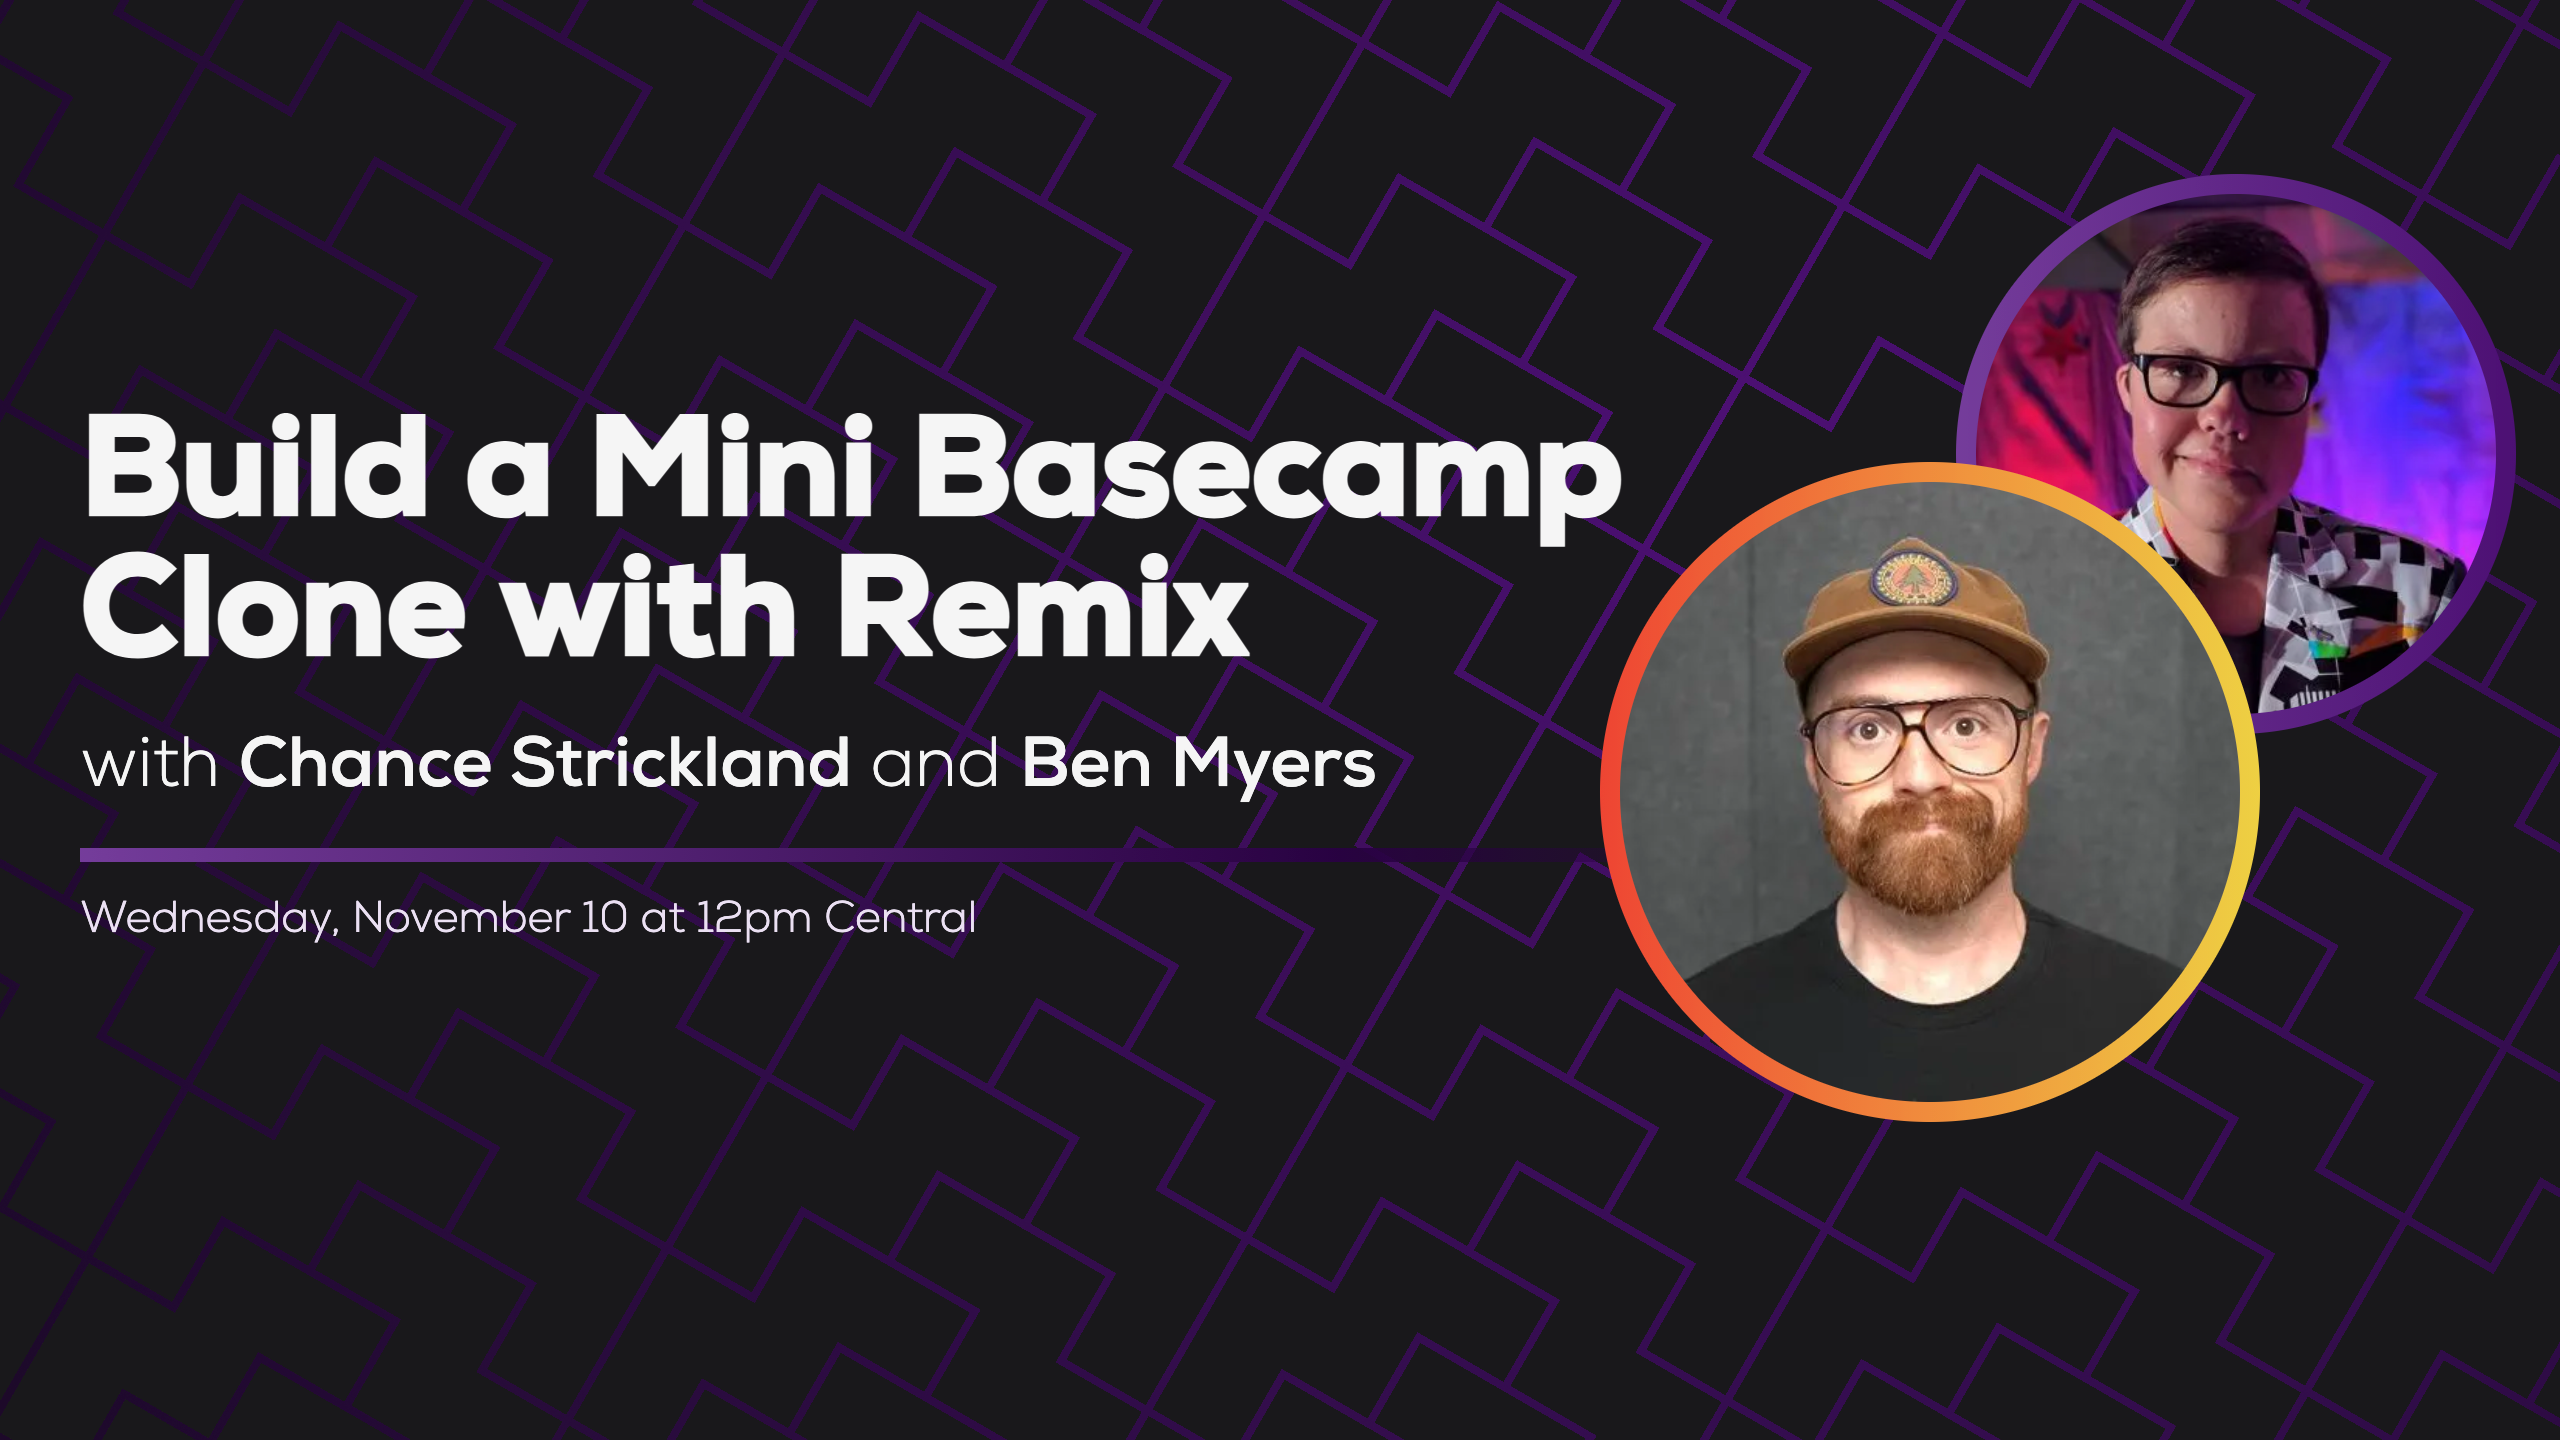
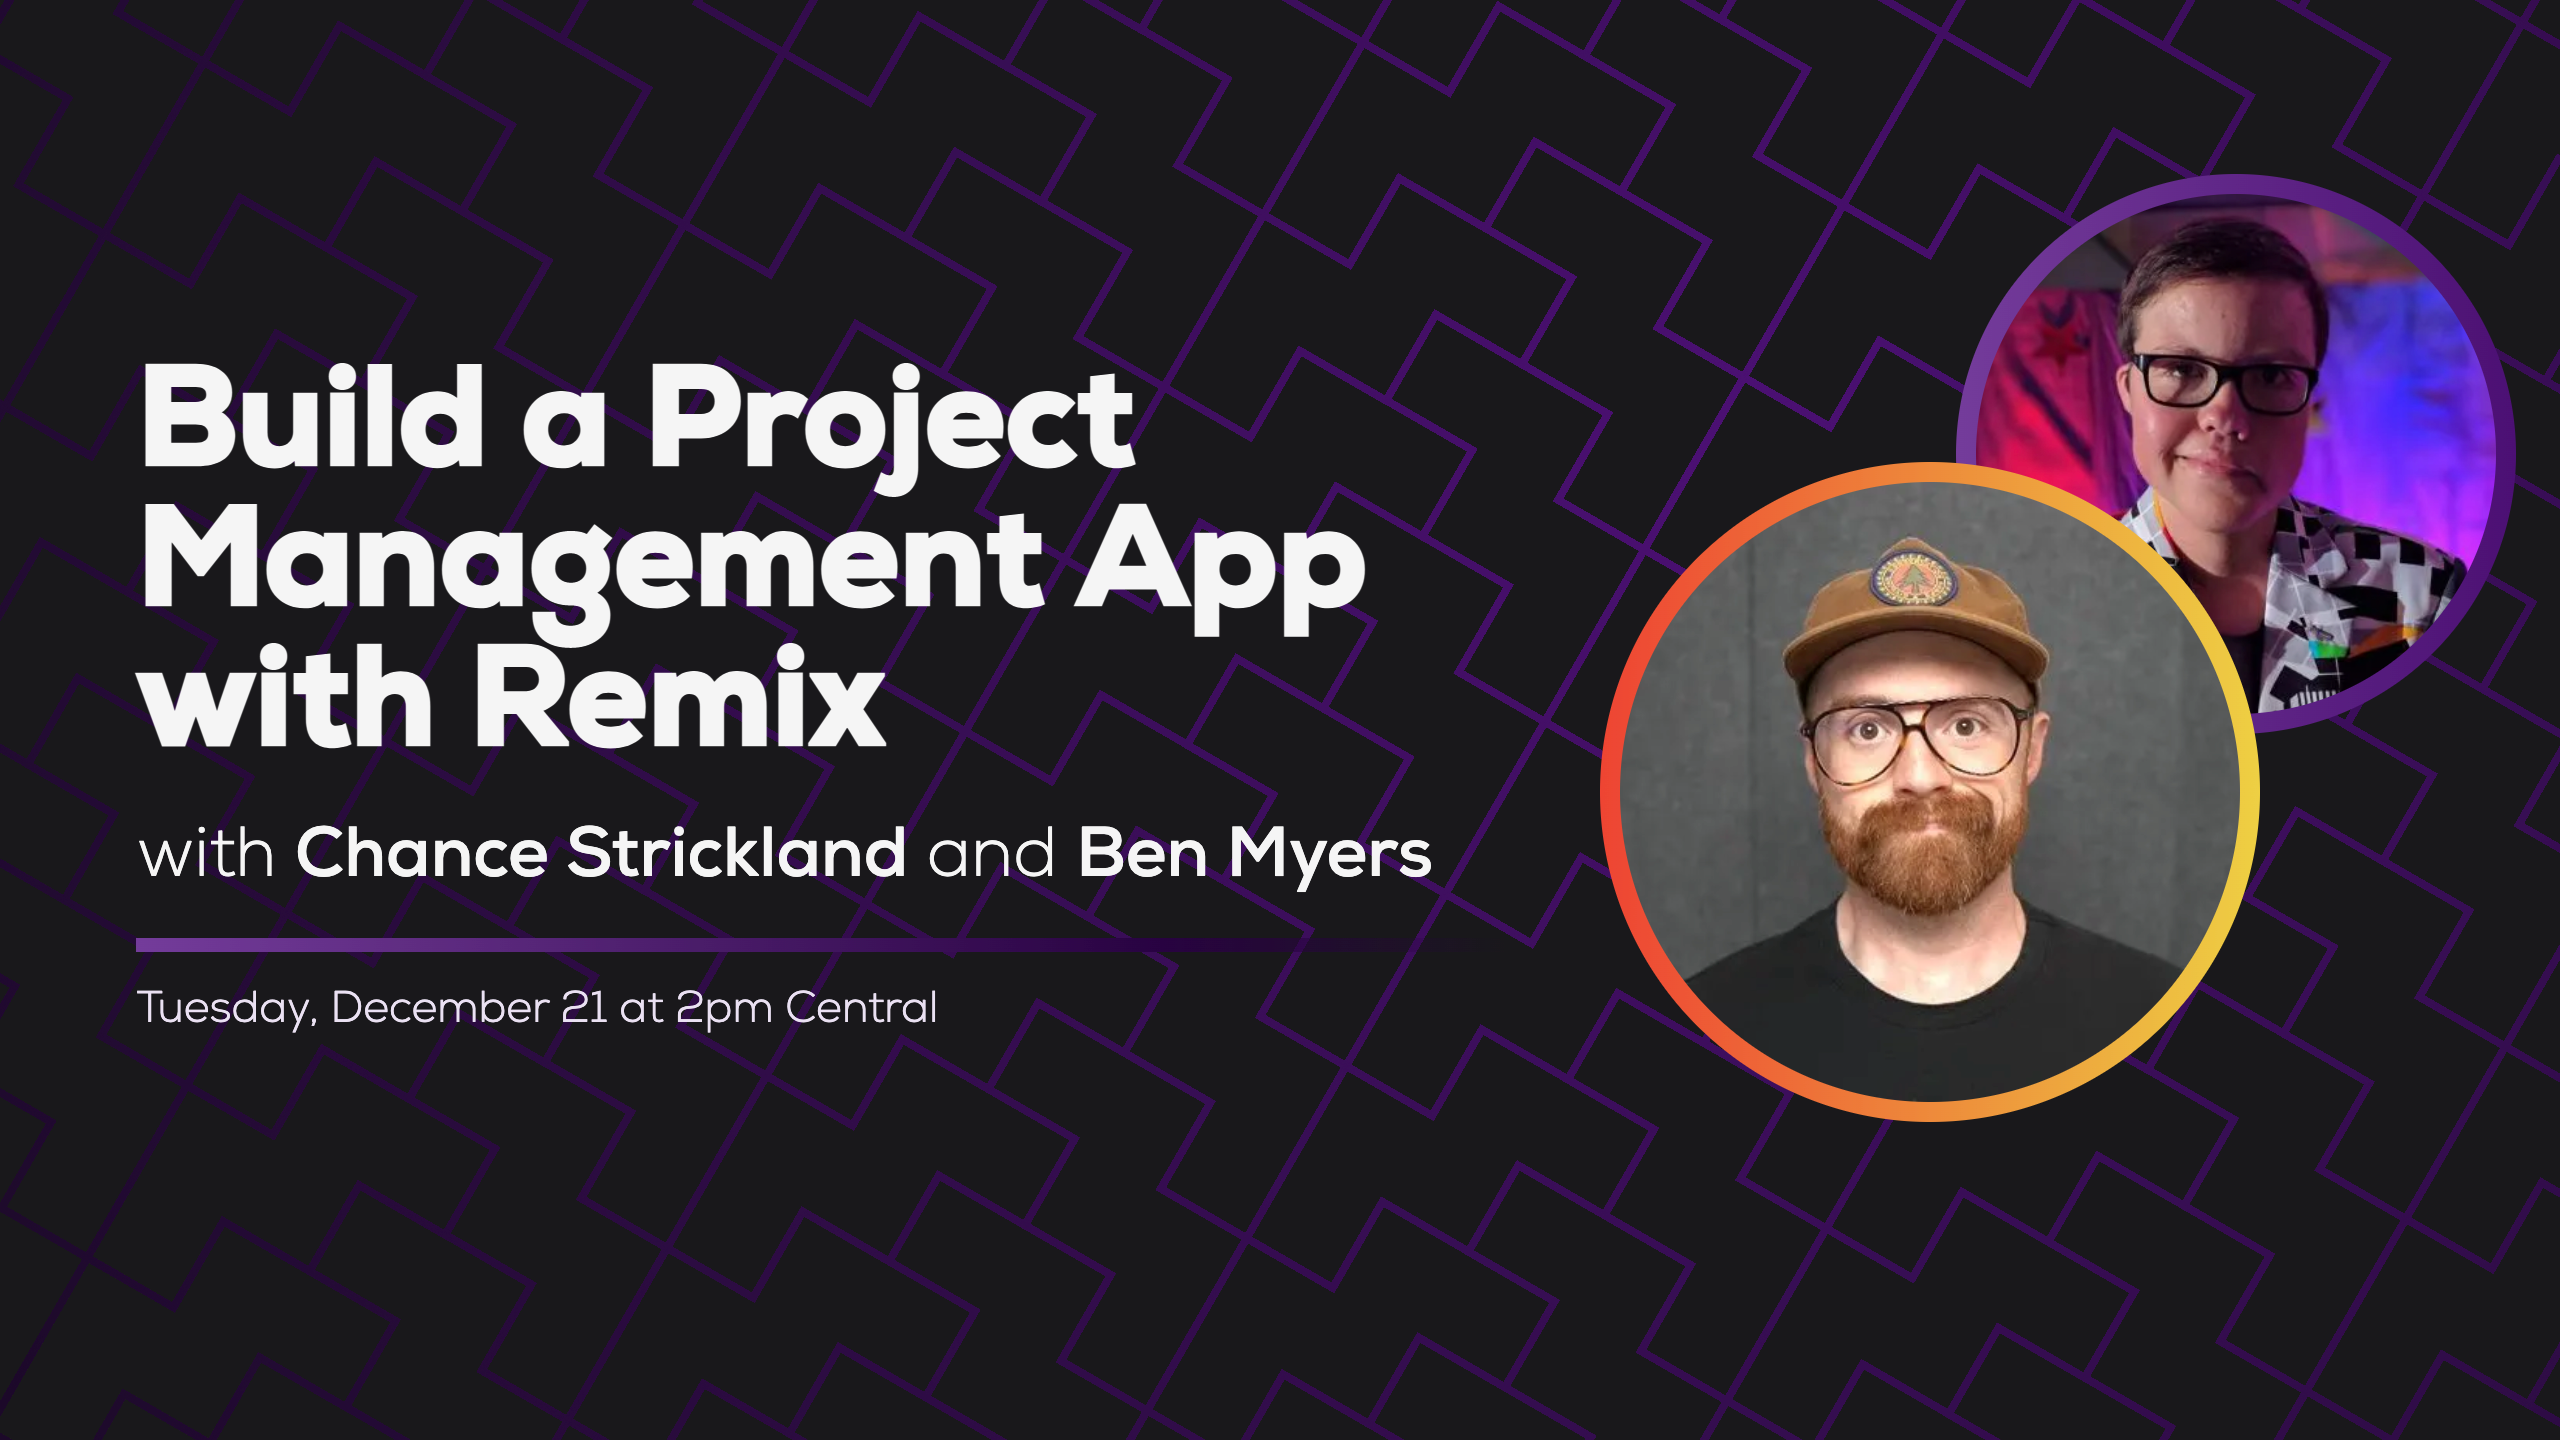
Update Remix stream deets

Changed region(s): [[0.0312, 0.25, 0.6562, 0.7188]]

diff --git a/src/streams/2021-11-10-remix.md b/src/streams/2021-11-10-remix.md
@@ -1,14 +1,12 @@
 ---
-title: "Let's Build a Mini Basecamp Clone with Remix, with Chance Strickland"
-thumbnailTitle: Build a Mini Basecamp Clone with Remix
+title: "Build a Project Management App with Remix, with Chance Strickland"
+thumbnailTitle: Build a Project Management App with Remix
 hosts:
   - Ben Myers
   - Chance Strickland
-permalink: false
-eleventyExcludeFromCollections: true
 ---
 
-[Remix](https://remix.run) is a new tool for building and deploying fullstack React applications with a keen appreciation for the web's foundations, built by the team behind [React Training](https://reacttraining.com) — and it was just made open source! Come join us on Some Antics as [Chance Strickland](https://twitter.com/chancethedev) shows us how we can build a mini Basecamp clone using Remix.
+[Remix](https://remix.run) is a new tool for building and deploying fullstack React applications with a keen appreciation for the web's foundations, built by the team behind [React Training](https://reacttraining.com) — and it was just made open source! Come join us on Some Antics as [Chance Strickland](https://twitter.com/chancethedev) shows us how we can build a project management app using Remix.
 
 ---
 ## More From Chance
